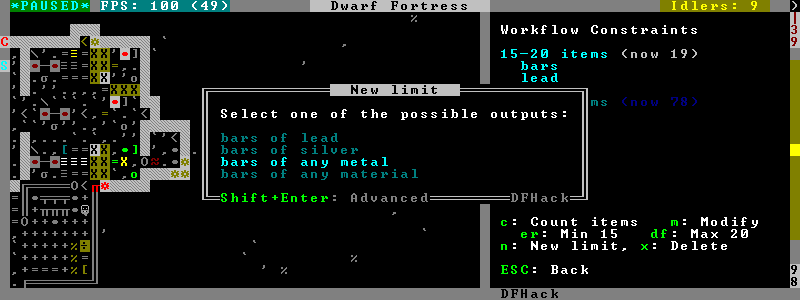
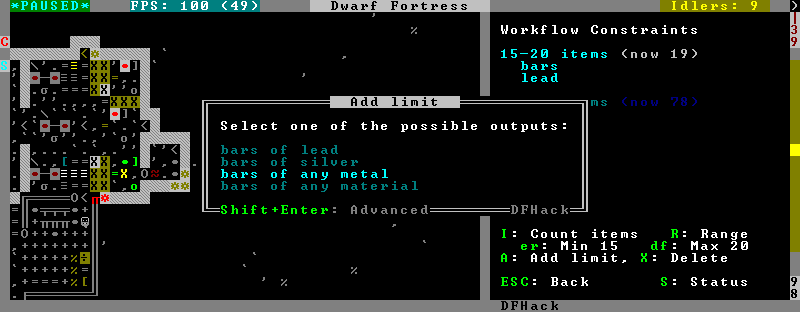
Implement the history graph in the workflow status screen.

diff --git a/Readme.html b/Readme.html
@@ -3034,11 +3034,11 @@ current job, and their current status.</p>
 current count is below the lower bound of the range, the job is resumed; if it
 is above or equal to the top bound, it will be suspended. Within the range, the
 specific constraint has no effect on the job; others may still affect it.</p>
-<p>Pressing 'c' switches the current constraint between counting stacks or items.
-Pressing 'm' lets you input the range directly; 'e', 'r', 'd', 'f' adjust the
-bounds by 1, 5, or 25 depending on the direction and the 'c' setting (counting
-items and expanding the range each gives a 5x bonus).</p>
-<p>Pressing 'n' produces a list of possible outputs of this job as guessed by
+<p>Pressing 'I' switches the current constraint between counting stacks or items.
+Pressing 'R' lets you input the range directly; 'e', 'r', 'd', 'f' adjust the
+bounds by 5, 10, or 20 depending on the direction and the 'I' setting (counting
+items and expanding the range each gives a 2x bonus).</p>
+<p>Pressing 'A' produces a list of possible outputs of this job as guessed by
 workflow, and lets you create a new constraint by choosing one as template. If you
 don't see the choice you want in the list, it likely means you have to adjust
 the job material first using <tt class="docutils literal">job <span class="pre">item-material</span></tt> or <tt class="docutils literal"><span class="pre">gui/workshop-job</span></tt>,
@@ -3050,6 +3050,23 @@ added to the list. If you use Shift-Enter, the interface proceeds to the
 next dialog, which allows you to edit the suggested constraint parameters to
 suit your need, and set the item count range.</p>
 <img alt="images/workflow-new2.png" src="images/workflow-new2.png" />
+<p>Pressing 'S' (or, with the example config, Alt-W in the 'z' stocks screen)
+opens the overall status screen, which was copied from the C++ implementation
+by falconne for better integration with the rest of the lua script:</p>
+<img alt="images/workflow-status.png" src="images/workflow-status.png" />
+<p>This screen shows all currently existing workflow constraints, and allows
+monitoring and/or changing them from one screen. The constraint list can
+be filtered by typing text in the field below.</p>
+<p>The color of the stock level number indicates how &quot;healthy&quot; the stock level
+is, based on current count and trend. Bright green is very good, green is good,
+red is bad, bright red is very bad.</p>
+<p>The limit number is also color-coded. Red means that there are currently no
+workshops producing that item (i.e. no jobs). If it's yellow, that means the
+production has been delayed, possibly due to lack of input materials.</p>
+<p>The chart on the right is a plot of the last 14 days (28 half day plots) worth
+of stock history for the selected item, with the rightmost point representing
+the current stock value. The bright green dashed line is the target
+limit (maximum) and the dark green line is that minus the gap (minimum).</p>
 </div>
 <div class="section" id="gui-assign-rack">
 <h2><a class="toc-backref" href="#id146">gui/assign-rack</a></h2>

diff --git a/Lua API.html b/Lua API.html
@@ -2787,6 +2787,14 @@ before rendering the token.</p>
 <li><p class="first"><tt class="docutils literal">token.tile = pen</tt></p>
 <p>Specifies a pen to paint as one tile before the main part of the token.</p>
 </li>
+<li><p class="first"><tt class="docutils literal">token.width = ...</tt></p>
+<p>If specified either as a value or a callback, the text field is padded
+or truncated to the specified number.</p>
+</li>
+<li><p class="first"><tt class="docutils literal">token.pad_char = <span class="pre">'?'</span></tt></p>
+<p>If specified together with <tt class="docutils literal">width</tt>, the padding area is filled with
+this character instead of just being skipped over.</p>
+</li>
 <li><p class="first"><tt class="docutils literal">token.key = <span class="pre">'...'</span></tt></p>
 <p>Specifies the keycode associated with the token. The string description
 of the key binding is added to the text content of the token.</p>
@@ -2848,7 +2856,9 @@ this may be extended with mouse click support.</p>
 </tr>
 <tr class="field"><th class="field-name">icon_pen:</th><td class="field-body">Default pen for icons.</td>
 </tr>
-<tr class="field"><th class="field-name">on_select:</th><td class="field-body">Selection change callback; called as <tt class="docutils literal">on_select(index,choice)</tt>.</td>
+<tr class="field"><th class="field-name">on_select:</th><td class="field-body">Selection change callback; called as <tt class="docutils literal">on_select(index,choice)</tt>.
+This is also called with <em>nil</em> arguments if <tt class="docutils literal">setChoices</tt> is called
+with an empty list.</td>
 </tr>
 <tr class="field"><th class="field-name">on_submit:</th><td class="field-body">Enter key callback; if specified, the list reacts to the key
 and calls it as <tt class="docutils literal">on_submit(index,choice)</tt>.</td>
@@ -2927,6 +2937,8 @@ supports:</p>
 <col class="field-body" />
 <tbody valign="top">
 <tr class="field"><th class="field-name">edit_pen:</th><td class="field-body">If specified, used instead of <tt class="docutils literal">cursor_pen</tt> for the edit field.</td>
+</tr>
+<tr class="field"><th class="field-name">edit_below:</th><td class="field-body">If true, the edit field is placed below the list instead of above.</td>
 </tr>
 <tr class="field"><th class="field-name" colspan="2">not_found_label:</th></tr>
 <tr class="field"><td>&nbsp;</td><td class="field-body">Specifies the text of the label shown when no items match the filter.</td>

diff --git a/Readme.rst b/Readme.rst
@@ -2295,12 +2295,12 @@ current count is below the lower bound of the range, the job is resumed; if it
 is above or equal to the top bound, it will be suspended. Within the range, the
 specific constraint has no effect on the job; others may still affect it.
 
-Pressing 'c' switches the current constraint between counting stacks or items.
-Pressing 'm' lets you input the range directly; 'e', 'r', 'd', 'f' adjust the
-bounds by 1, 5, or 25 depending on the direction and the 'c' setting (counting
-items and expanding the range each gives a 5x bonus).
+Pressing 'I' switches the current constraint between counting stacks or items.
+Pressing 'R' lets you input the range directly; 'e', 'r', 'd', 'f' adjust the
+bounds by 5, 10, or 20 depending on the direction and the 'I' setting (counting
+items and expanding the range each gives a 2x bonus).
 
-Pressing 'n' produces a list of possible outputs of this job as guessed by
+Pressing 'A' produces a list of possible outputs of this job as guessed by
 workflow, and lets you create a new constraint by choosing one as template. If you
 don't see the choice you want in the list, it likely means you have to adjust
 the job material first using ``job item-material`` or ``gui/workshop-job``,
@@ -2315,6 +2315,29 @@ next dialog, which allows you to edit the suggested constraint parameters to
 suit your need, and set the item count range.
 
 .. image:: images/workflow-new2.png
+
+Pressing 'S' (or, with the example config, Alt-W in the 'z' stocks screen)
+opens the overall status screen, which was copied from the C++ implementation
+by falconne for better integration with the rest of the lua script:
+
+.. image:: images/workflow-status.png
+
+This screen shows all currently existing workflow constraints, and allows
+monitoring and/or changing them from one screen. The constraint list can
+be filtered by typing text in the field below.
+
+The color of the stock level number indicates how "healthy" the stock level
+is, based on current count and trend. Bright green is very good, green is good,
+red is bad, bright red is very bad.
+
+The limit number is also color-coded. Red means that there are currently no
+workshops producing that item (i.e. no jobs). If it's yellow, that means the
+production has been delayed, possibly due to lack of input materials.
+
+The chart on the right is a plot of the last 14 days (28 half day plots) worth
+of stock history for the selected item, with the rightmost point representing
+the current stock value. The bright green dashed line is the target
+limit (maximum) and the dark green line is that minus the gap (minimum).
 
 
 gui/assign-rack

diff --git a/Lua API.rst b/Lua API.rst
@@ -2785,6 +2785,8 @@ It has the following attributes:
 :inactive_pen: If specified, used for the cursor when the widget is not active.
 :icon_pen: Default pen for icons.
 :on_select: Selection change callback; called as ``on_select(index,choice)``.
+            This is also called with *nil* arguments if ``setChoices`` is called
+            with an empty list.
 :on_submit: Enter key callback; if specified, the list reacts to the key
             and calls it as ``on_submit(index,choice)``.
 :on_submit2: Shift-Enter key callback; if specified, the list reacts to the key
